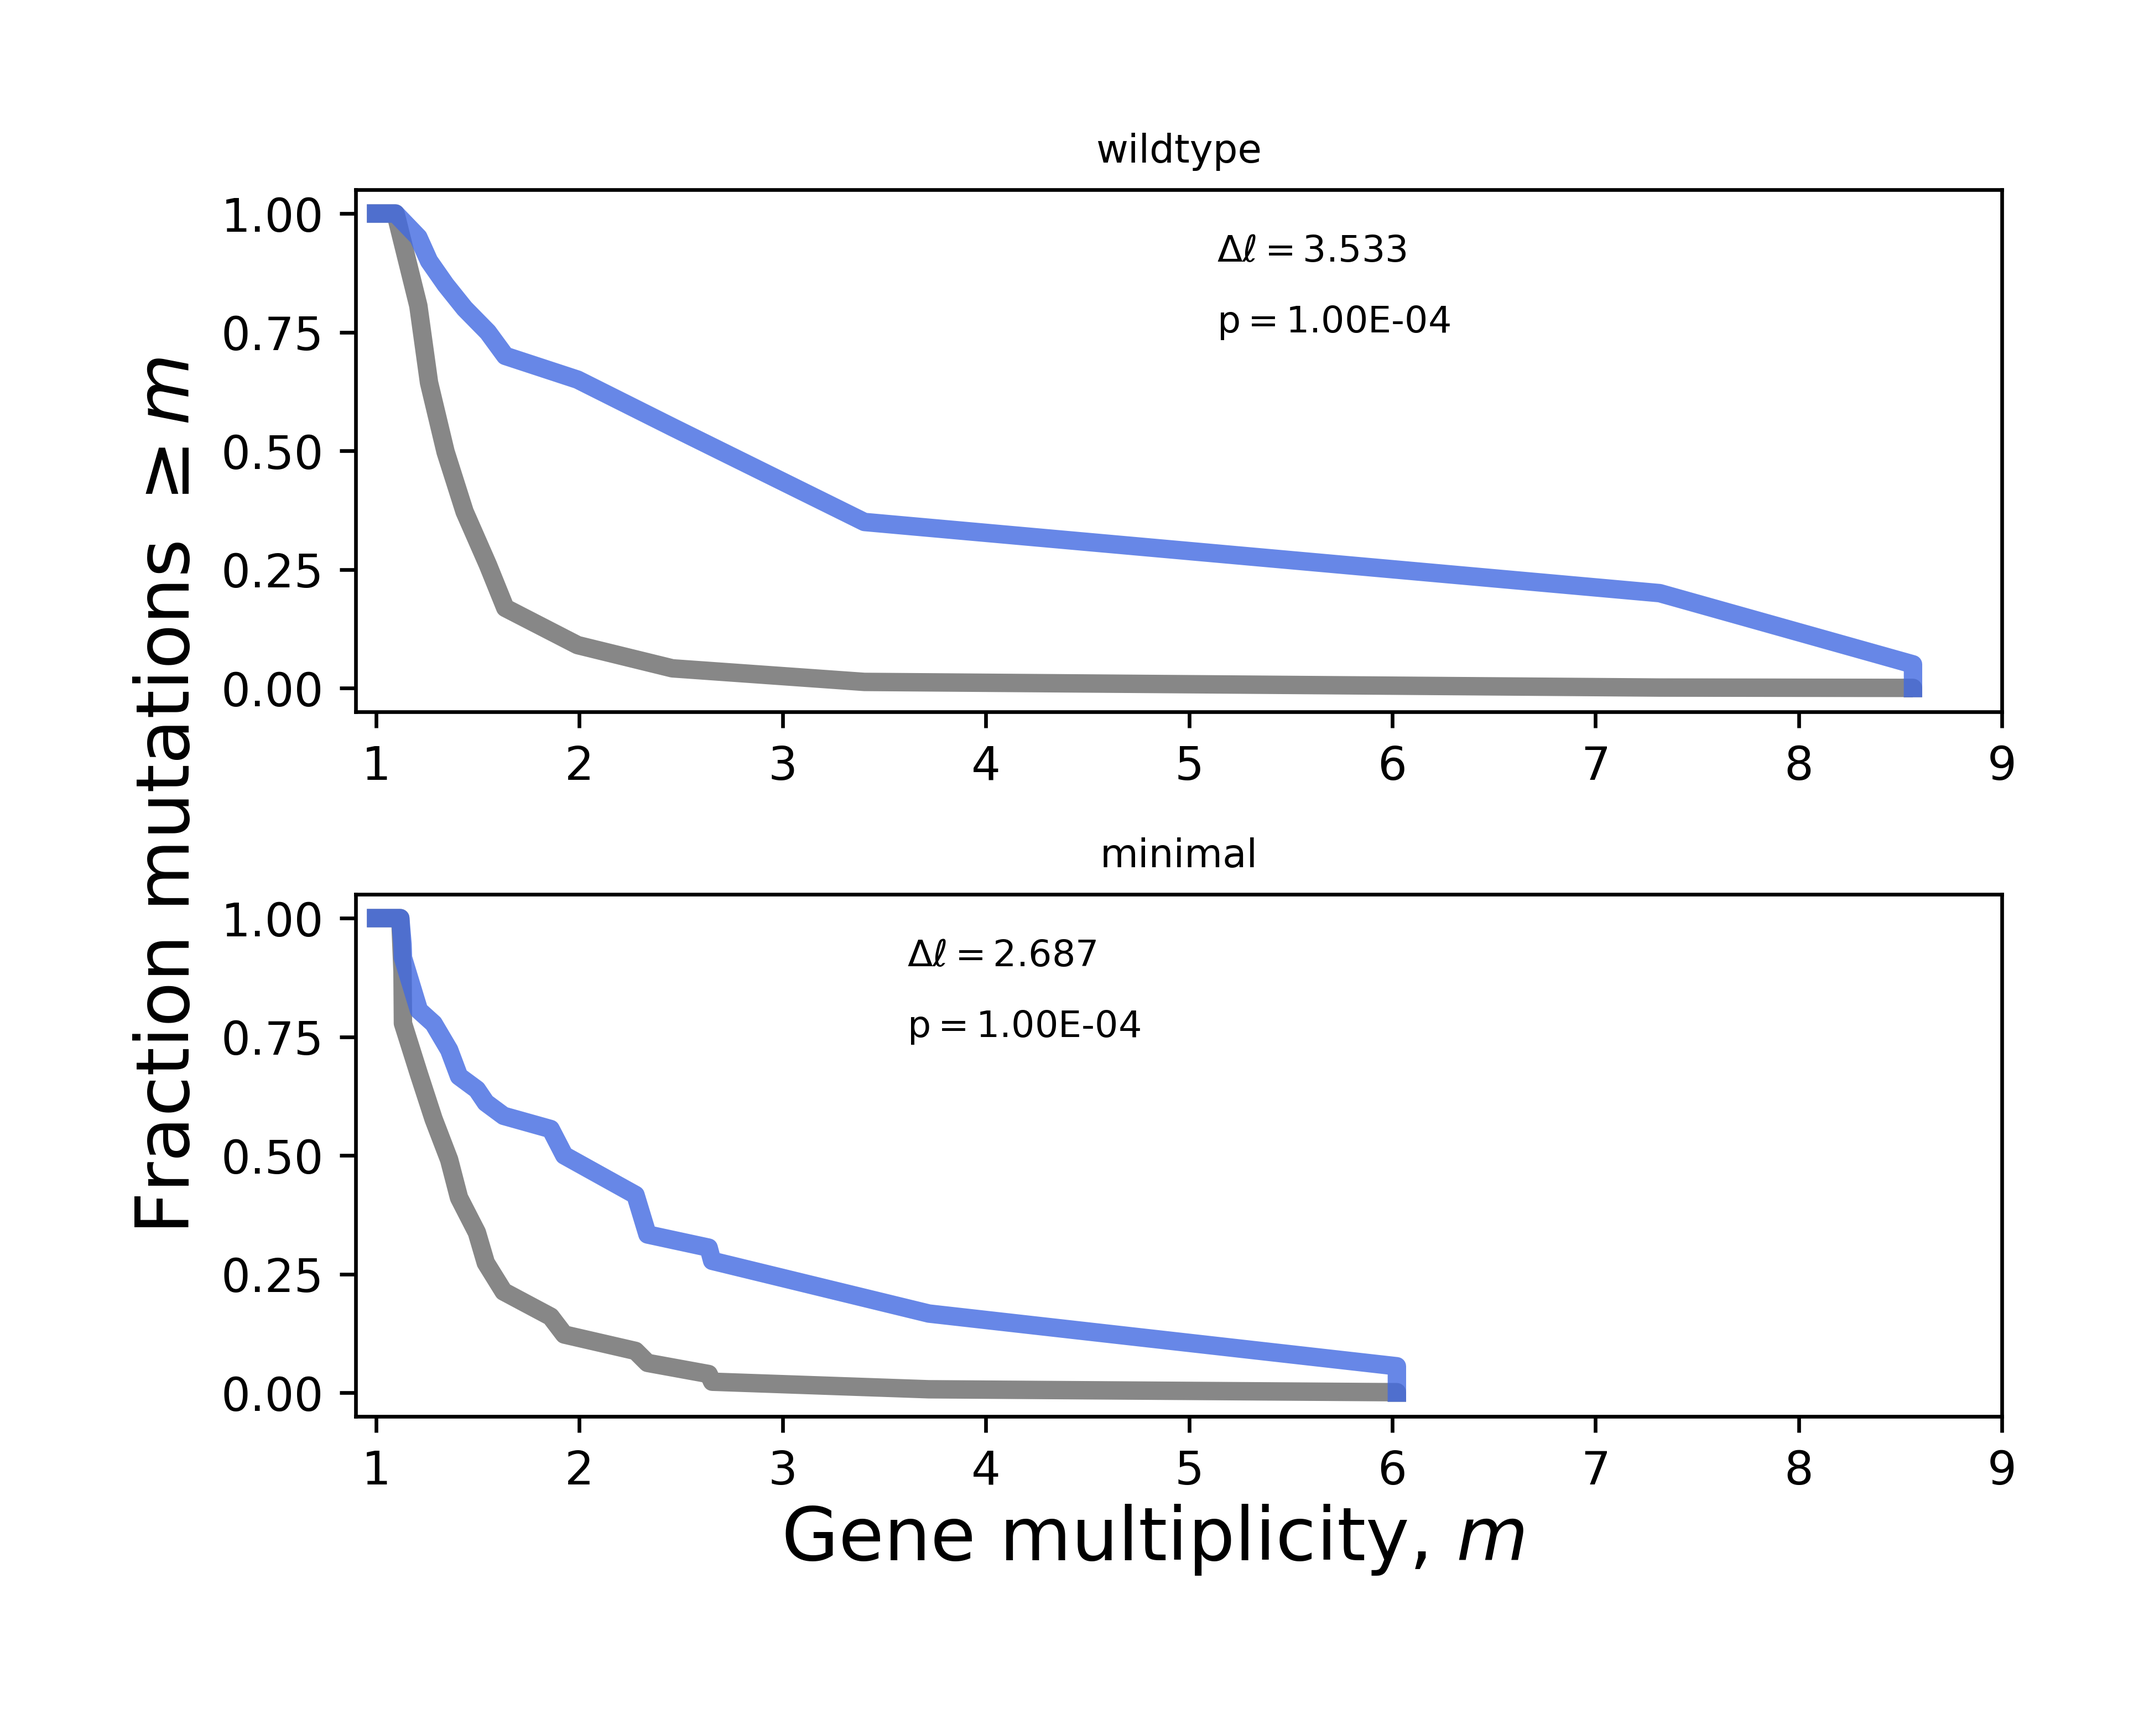
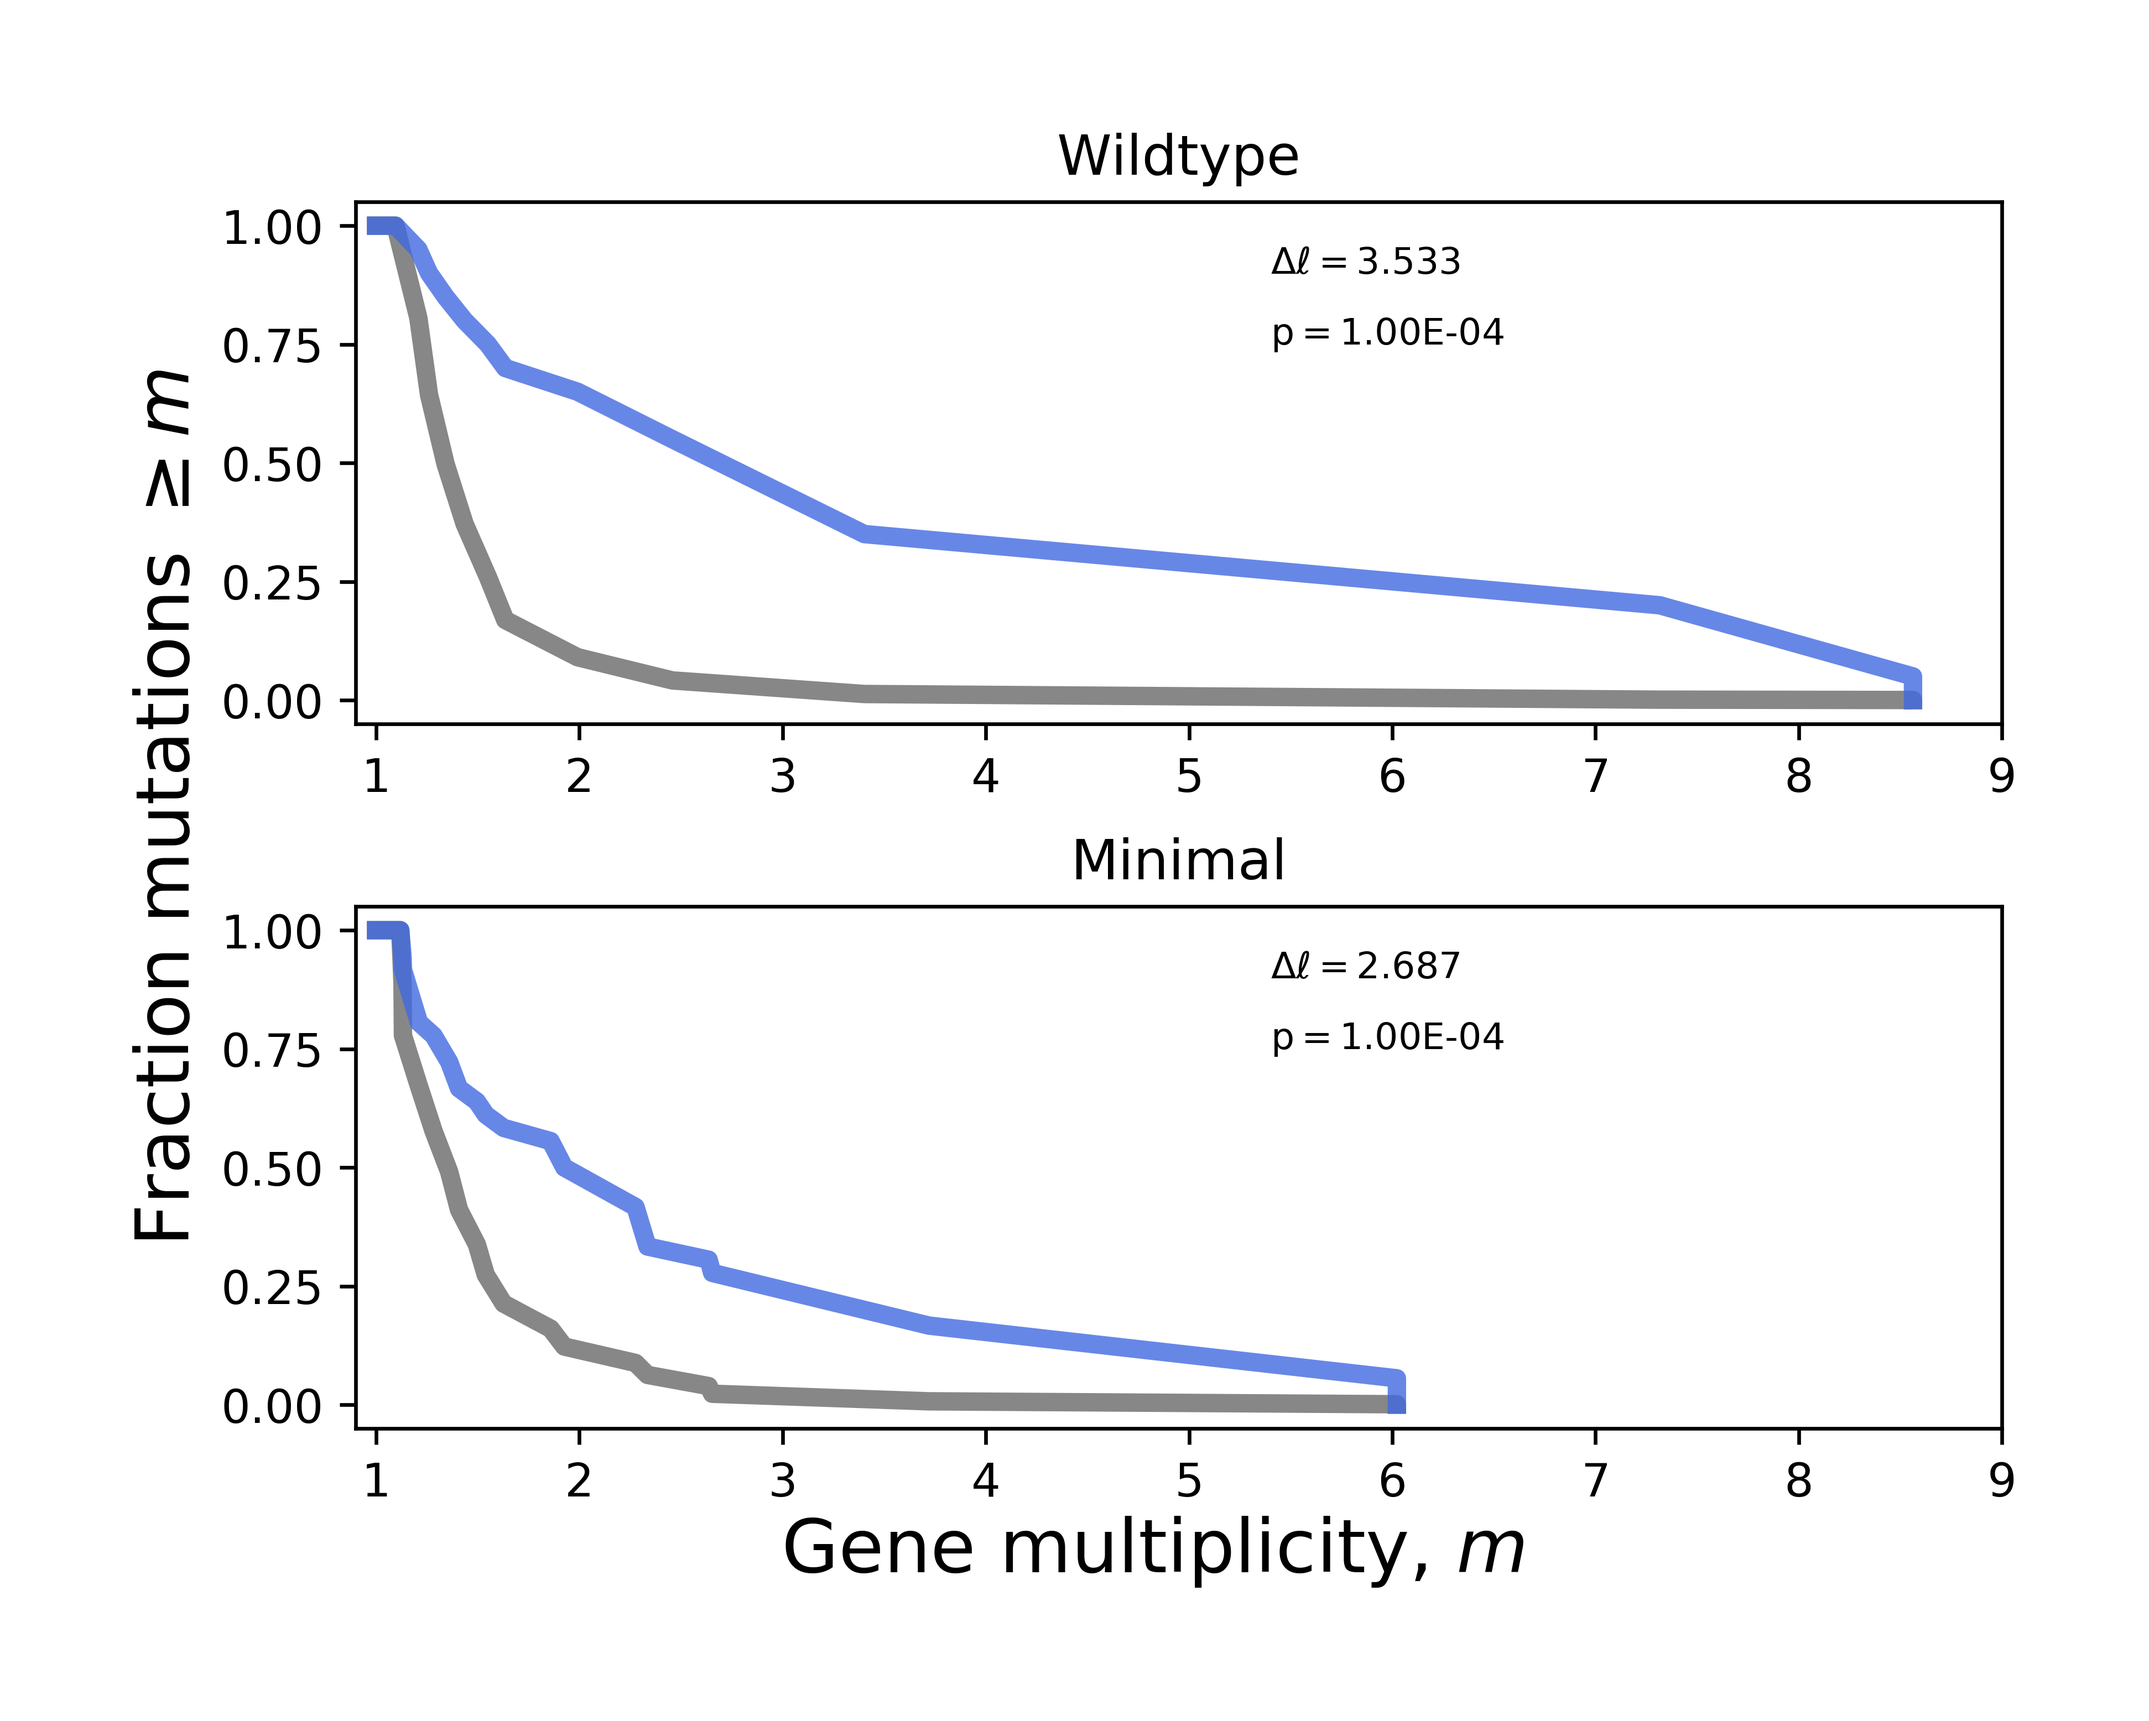
minor figure edits

diff --git a/OUTPUTS/get_multiplicity.py b/OUTPUTS/get_multiplicity.py
@@ -214,14 +214,17 @@ def plot_multiplicity_survival():
 
         taxon_par = df_par.loc[df_par['Strain'] == strain]
 
-        ax.annotate(r'$\Delta \ell= $'+ str(round(float(taxon_par.G_score), 3)), (0.6 *max(new_x), 0.9), fontsize=8)
+        ax.annotate(r'$\Delta \ell= $'+ str(round(float(taxon_par.G_score), 3)), (0.6 *9, 0.9), fontsize=8)
         if np.log10(float(taxon_par.p_value)) < -3:
-            ax.annotate(r'$\mathrm{p} = $'+ str('%.2E' % Decimal(float(taxon_par.p_value))), (0.6 *max(new_x), 0.75), fontsize=8)
+            ax.annotate(r'$\mathrm{p} = $'+ str('%.2E' % Decimal(float(taxon_par.p_value))), (0.6 *9, 0.75), fontsize=8)
         else:
-            ax.annotate(r'$\mathrm{p} = $'+ str(round(float(taxon_par.p_value),3)), (0.6 *max(new_x), 0.75), fontsize=8)
+            ax.annotate(r'$\mathrm{p} = $'+ str(round(float(taxon_par.p_value),3)), (0.6 *9, 0.75), fontsize=8)
 
-        ax.title.set_text(strain)
-        ax.title.set_fontsize(8.5)
+        if strain == 'wildtype':
+            ax.title.set_text('Wildtype')
+        elif strain == 'minimal':
+            ax.title.set_text('Minimal')
+        ax.title.set_fontsize(12)
         ax.xaxis.set_major_formatter(FormatStrFormatter('%d'))
 
     fig.text(0.5, 0.02, 'Gene multiplicity, ' + '$m$', ha='center', fontsize=16)
@@ -265,8 +268,7 @@ def plot_logpvalue_survival():
         ax.set_xlim([0.25, 8])
 
         ax.title.set_text(strain)
-
-        ax.title.set_fontsize(8.5)
+        ax.title.set_fontsize(12)
 
     fig.text(0.5, 0.02, '$-\mathrm{log}_{10}P$', ha='center', fontsize=16)
     fig.text(0.02, 0.5, 'Number of genes', va='center', rotation='vertical', fontsize=16)
@@ -282,5 +284,5 @@ def plot_logpvalue_survival():
 #print(ttest_ind([14,23,15,20], [19,14,13,9],equal_var=False))
 
 #get_multiplicity()
-#plot_multiplicity_survival()
-plot_logpvalue_survival()
+plot_multiplicity_survival()
+#plot_logpvalue_survival()
